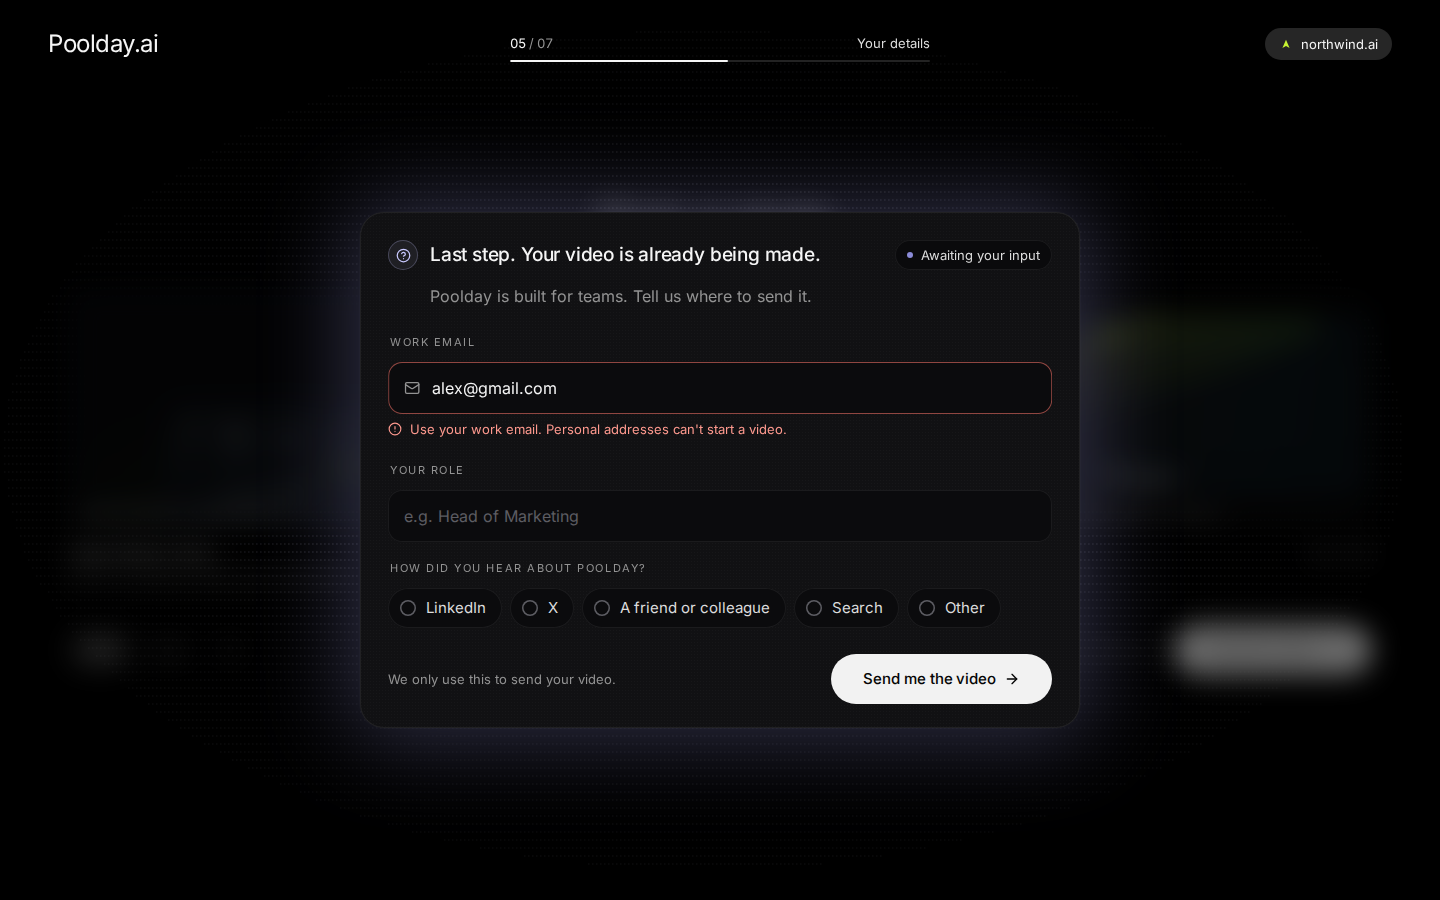
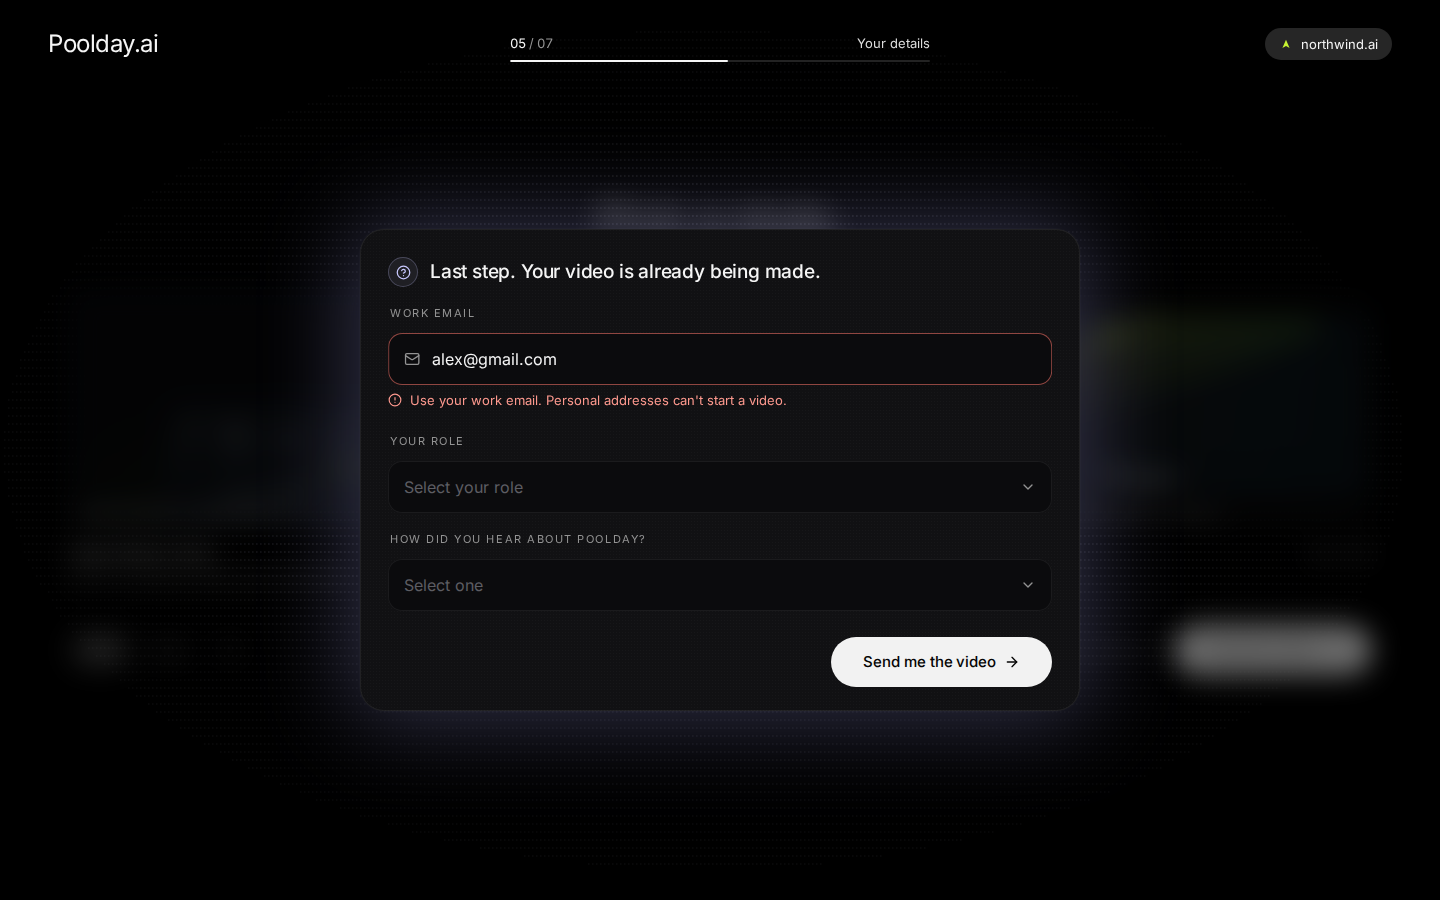
Growth mockups v3.1: dropdown selects, less noise in the details card
Claude-Session: https://claude.ai/code/session_014hQZTHyaVN7FtPgL5qa4Zv

diff --git a/deliverables/D5-mockups/src/app.js b/deliverables/D5-mockups/src/app.js
@@ -57,11 +57,14 @@ function scriptLaunch(product = "launch", url = "northwind.ai") {
   push({ t: L0 + 1.6, type: "lerr", f: "email" });
   push({ t: L0 + 2.55, type: "ltype", f: "email", text: "alex@northwind.ai", per: 0.04, clear: true });
   push({ t: L0 + 3.3, type: "lok", f: "email" });
-  click(L0 + 3.75, "#fRole", 1, { type: "lfocus", f: "role" });
-  push({ t: L0 + 3.85, type: "ltype", f: "role", text: "Head of Marketing", per: 0.035 });
-  click(L0 + 4.9, '.opt[data-o="0"]', 1, { type: "lopt", o: 0 });
-  click(L0 + 5.55, "#goLead", 4, { type: "go", to: "s-gen" });
-  const G0 = L0 + 5.85; GSTART = G0;
+  click(L0 + 3.75, "#fRole", 0, { type: "ddopen", f: "Role" });
+  push({ t: L0 + 4.3, type: "ddhl", f: "Role", i: 1 });
+  click(L0 + 4.6, "#ddRole .di:nth-child(2)", 1, { type: "ddpick", f: "Role", i: 1 });
+  click(L0 + 5.05, "#fSrc", 0, { type: "ddopen", f: "Src" });
+  push({ t: L0 + 5.4, type: "ddhl", f: "Src", i: 0 });
+  click(L0 + 5.65, "#ddSrc .di:nth-child(1)", 1, { type: "ddpick", f: "Src", i: 0 });
+  click(L0 + 6.2, "#goLead", 4, { type: "go", to: "s-gen" });
+  const G0 = L0 + 6.5; GSTART = G0;
   push({ t: G0, type: "gen" });
   push({ t: G0 + GEN_DUR + 0.05, type: "go", to: "s-res" });
   const R0 = G0 + GEN_DUR + 0.05;
@@ -75,8 +78,9 @@ function scriptLaunch(product = "launch", url = "northwind.ai") {
     [7.2, ["#kit-ai", 180, 120]], [7.95, ["#kit-ai", 0, 6]], [8.52, ["#kit-ai", 6, 5]], [9.1, ["#kit-ai", 12, 8]],
     [10.0, [900, 700]], [10.8, ['.tile[data-i="0"] .pv', 60, 40]], [11.6, ['.tile[data-i="0"] .pv', 80, 34]], [12.12, ['.tile[data-i="0"] .pv', 84, 30]],
     [12.5, ['.tile[data-i="0"] .pv', 90, 34]], [13.05, "#go4"], [13.4, "#go4"],
-    [L0 + 0.7, ["#fEmail", -200, 2]], [L0 + 2.3, ["#fEmail", -190, 4]], [L0 + 3.7, ["#fRole", -200, 2]], [L0 + 4.4, ["#fRole", -160, 6]],
-    [L0 + 4.85, ['.opt[data-o="0"]', 0, 2]], [L0 + 5.2, ['.opt[data-o="0"]', 6, 4]], [L0 + 5.5, ["#goLead", 10, 2]], [L0 + 5.8, ["#goLead", 12, 3]],
+    [L0 + 0.7, ["#fEmail", -200, 2]], [L0 + 2.3, ["#fEmail", -190, 4]], [L0 + 3.7, ["#fRole", 180, 2]], [L0 + 3.95, ["#fRole", 184, 3]],
+    [L0 + 4.3, ["#ddRole .di:nth-child(2)", -120, 1]], [L0 + 4.65, ["#ddRole .di:nth-child(2)", -116, 2]], [L0 + 5.0, ["#fSrc", 180, 2]], [L0 + 5.2, ["#fSrc", 184, 3]],
+    [L0 + 5.4, ["#ddSrc .di:nth-child(1)", -150, 1]], [L0 + 5.7, ["#ddSrc .di:nth-child(1)", -146, 2]], [L0 + 6.1, ["#goLead", 10, 2]], [L0 + 6.45, ["#goLead", 12, 3]],
     [R0 - 0.3, [1010, 560]], [R0 + 1.4, ["#share", 60, 2]], [R0 + 2.35, ["#share", 70, 3]], [R0 + 2.9, ['#shareMenu .mi', -40, 2]], [R0 + 3.6, ['#shareMenu .mi', -30, 4]],
     [R0 + 4.6, ["#book", 40, 4]], [R0 + 5.05, ["#book", 44, 3]], [DUR, ["#book", 46, 4]]];
   HIDE_CURSOR = [[G0 - 0.05, R0 - 0.35]];
@@ -457,8 +461,8 @@ function typed(t, f) { const evs = EV.filter(e => e.type === "ltype" && e.f === 
 function drawLead(t, te) {
   const u = t - te, card = $("#acard");
   const k = fr(t, te + 0.08); card.style.transform = `translateY(${(1 - expo(k, 0.8)) * 34}px) scale(${0.97 + 0.03 * expo(k, 0.8)})`; card.style.opacity = ink(k, 0.5);
-  const foc = last(t, "lfocus"), fcs = foc ? foc.f : null;
-  [["email", "#fEmail", "#vEmail", "#cEmail", "you@company.com"], ["role", "#fRole", "#vRole", "#cRole", "e.g. Head of Marketing"]].forEach(([f, fs, vs, cs, ph]) => {
+  const foc = last(t, "lfocus"), dd0 = last(t, "ddopen"), fcs = foc && !(dd0 && dd0.t > foc.t) ? foc.f : null;
+  [["email", "#fEmail", "#vEmail", "#cEmail", "you@company.com"]].forEach(([f, fs, vs, cs, ph]) => {
     const { v, typing } = typed(t, f), on = fcs === f; const vEl = $(vs);
     vEl.textContent = v || ph; vEl.className = v ? "v" : "v ph";
     $(fs).style.setProperty("--focus", on ? ink(fr(t, foc.t), 0.6) : 0);
@@ -470,8 +474,16 @@ function drawLead(t, te) {
   $("#errEmail").style.height = (eh * 30) + "px"; $("#errEmail").style.opacity = eh; $("#fEmail").classList.toggle("bad", !!showErr);
   if (showErr) $("#fEmail").style.transform = `translateX(${Math.sin(fr(t, er.t) * 1.9) * 7 * Math.exp(-fr(t, er.t) / 6)}px)`; else $("#fEmail").style.transform = "";
   const okc = $("#okEmail"); if (ok) { const v = fr(t, ok.t); okc.style.opacity = ink(v, 0.6); okc.style.transform = `scale(${0.6 + 0.4 * spring(v, 0.45, 0.3)})`; } else okc.style.opacity = 0;
-  const op = last(t, "lopt"); $$(".opt").forEach(o => { const on = op && +o.dataset.o === op.o; o.classList.toggle("on", !!on);
-    o.style.transform = on ? `scale(${1 + (1 - spring(fr(t, op.t), 0.5, 0.3)) * -0.04})` : `scale(${1 - pressAmt(t, `.opt[data-o="${o.dataset.o}"]`) * 0.04})`; });
+  // Dropdown selects: open on click, highlight follows the pointer, pick closes and fills the field.
+  const PH = { Role: "Select your role", Src: "Select one" };
+  ["Role", "Src"].forEach(f => { const dd = $("#dd" + f), fld = $("#f" + f), v = $("#v" + f);
+    const o = last(t, "ddopen", e => e.f === f), pk = last(t, "ddpick", e => e.f === f), hl = last(t, "ddhl", e => e.f === f);
+    const open = o && (!pk || pk.t < o.t); const items = $$(".di", dd);
+    if (open) { const k = fr(t, o.t + 0.04); dd.style.opacity = ink(k, 0.55); dd.style.transform = `translateY(${(1 - expo(k, 0.78)) * -8}px) scale(${0.97 + 0.03 * expo(k, 0.78)})`; }
+    else if (pk) { const k = out3(seg(t, pk.t, pk.t + 0.18)); dd.style.opacity = 1 - k; dd.style.transform = `scale(${1 - 0.02 * k})`; } else dd.style.opacity = 0;
+    items.forEach((it, i) => it.classList.toggle("hl", !!(hl && hl.i === i && (!pk || pk.t < hl.t || (pk.t >= hl.t && t < pk.t + 0.18)))));
+    if (pk && pk.t >= (o ? o.t : 0)) { v.textContent = items[pk.i].textContent; v.className = "v"; } else { v.textContent = PH[f]; v.className = "v ph"; }
+    fld.style.setProperty("--focus", open ? 1 : 0); fld.style.transform = `scale(${1 - pressAmt(t, "#f" + f) * 0.02})`; });
   $("#goLead").style.setProperty("--p", pressAmt(t, "#goLead"));
   // Keep the style previews alive behind the blur.
   const g = last(te - 1e-6, "go"); seekPreviews(t - (g ? g.t : te), $$("#grid3 iframe"));
@@ -529,8 +541,8 @@ function wireLive() {
   on("#grid3 .tile", el => click(liveNow(), `.tile[data-i="${el.dataset.i}"]`, 6, { type: "select", i: +el.dataset.i }));
   on("#go4", () => { const t = liveNow(); if (!last(t, "select")) push({ t, type: "select", i: 0 }); click(t, "#go4", 6, { type: "go", to: "s-lead" }); });
   on("#fEmail", () => { const t = liveNow(); click(t, "#fEmail", 0, { type: "lfocus", f: "email" }); push({ t: t + 0.1, type: "ltype", f: "email", text: "alex@northwind.ai", per: 0.035 }); push({ t: t + 0.8, type: "lok", f: "email" }); });
-  on("#fRole", () => { const t = liveNow(); click(t, "#fRole", 2, { type: "lfocus", f: "role" }); push({ t: t + 0.1, type: "ltype", f: "role", text: "Head of Marketing", per: 0.035 }); });
-  on(".opt", el => click(liveNow(), `.opt[data-o="${el.dataset.o}"]`, 2, { type: "lopt", o: +el.dataset.o }));
+  on("#fRole, #fSrc", el => click(liveNow(), "#" + el.id, 0, { type: "ddopen", f: el.id.slice(1) }));
+  on(".dd .di", el => { const f = el.parentElement.id.slice(2), i = [...el.parentElement.children].indexOf(el); click(liveNow(), `#dd${f} .di:nth-child(${i + 1})`, 1, { type: "ddpick", f, i }); });
   on("#goLead", () => { const t = liveNow(); click(t, "#goLead", 6, { type: "go", to: "s-gen" }); push({ t: t + 0.3, type: "gen" }); push({ t: t + 0.3 + GEN_DUR + 0.05, type: "go", to: "s-res" }); });
   on("#share", () => { const t = liveNow(); click(t, "#share", 0, { type: "share" }); });
   on("#shareMenu .mi", () => push({ t: liveNow(), type: "copied" }));

diff --git a/deliverables/D5-mockups/src/app.html b/deliverables/D5-mockups/src/app.html
@@ -28,6 +28,7 @@
   <symbol id="l-x" viewBox="0 0 24 24"><path fill="currentColor" stroke="none" d="M18.244 2.25h3.308l-7.227 8.26 8.502 11.24H16.17l-5.214-6.817L4.99 21.75H1.68l7.73-8.835L1.254 2.25H8.08l4.713 6.231zm-1.161 17.52h1.833L7.084 4.126H5.117z"/></symbol>
   <symbol id="l-alert" viewBox="0 0 24 24"><circle cx="12" cy="12" r="10"/><path d="M12 8v4"/><path d="M12 16h.01"/></symbol>
   <symbol id="l-help" viewBox="0 0 24 24"><circle cx="12" cy="12" r="10"/><path d="M9.09 9a3 3 0 0 1 5.83 1c0 2-3 3-3 3"/><path d="M12 17h.01"/></symbol>
+  <symbol id="l-chev" viewBox="0 0 24 24"><path d="m6 9 6 6 6-6"/></symbol>
   <symbol id="l-calendar" viewBox="0 0 24 24"><path d="M8 2v4"/><path d="M16 2v4"/><rect x="3" y="4" width="18" height="18" rx="2"/><path d="M3 10h18"/></symbol>
   <symbol id="l-volume" viewBox="0 0 24 24"><path d="M11 4.702a.705.705 0 0 0-1.203-.498L6.413 7.587A1.4 1.4 0 0 1 5.416 8H3a1 1 0 0 0-1 1v6a1 1 0 0 0 1 1h2.416a1.4 1.4 0 0 1 .997.413l3.383 3.384A.705.705 0 0 0 11 19.298z"/><path d="M16 9a5 5 0 0 1 0 6"/><path d="M19.364 18.364a9 9 0 0 0 0-12.728"/></symbol>
   <symbol id="l-layers" viewBox="0 0 24 24"><path d="m12.83 2.18a2 2 0 0 0-1.66 0L2.6 6.08a1 1 0 0 0 0 1.83l8.58 3.91a2 2 0 0 0 1.66 0l8.58-3.9a1 1 0 0 0 0-1.83Z"/><path d="m22 17.65-9.17 4.16a2 2 0 0 1-1.66 0L2 17.65"/><path d="m22 12.65-9.17 4.16a2 2 0 0 1-1.66 0L2 12.65"/></symbol>
@@ -137,18 +138,17 @@
   <section class="screen" id="s-lead">
     <div class="modal-wrap">
       <div class="acard" id="acard">
-        <div class="ahead"><span class="qi"><svg class="i"><use href="#l-help"/></svg></span><b>Last step. Your video is already being made.</b><span class="await"><i></i>Awaiting your input</span></div>
-        <p class="asub">Poolday is built for teams. Tell us where to send it.</p>
+        <div class="ahead"><span class="qi"><svg class="i"><use href="#l-help"/></svg></span><b>Last step. Your video is already being made.</b></div>
         <div class="flabel">Work email</div>
         <div class="afield" id="fEmail" data-hover><svg class="i"><use href="#l-mail"/></svg><span class="v" id="vEmail"></span><span class="caret" id="cEmail"></span><span class="okc" id="okEmail"><svg class="i"><use href="#l-check"/></svg></span></div>
         <div class="err" id="errEmail"><svg class="i"><use href="#l-alert"/></svg>Use your work email. Personal addresses can't start a video.</div>
         <div class="flabel">Your role</div>
-        <div class="afield" id="fRole" data-hover><span class="v" id="vRole"></span><span class="caret" id="cRole"></span></div>
+        <div class="fw"><div class="afield sel" id="fRole" data-hover><span class="v ph" id="vRole">Select your role</span><svg class="i chev"><use href="#l-chev"/></svg></div>
+          <div class="dd" id="ddRole"><div class="di">Founder / CEO</div><div class="di">Head of Marketing</div><div class="di">Product Marketing</div><div class="di">Growth / Demand gen</div><div class="di">Other</div></div></div>
         <div class="flabel">How did you hear about Poolday?</div>
-        <div class="opts" id="opts">
-          <div class="opt" data-o="0" data-hover><i></i>LinkedIn</div><div class="opt" data-o="1" data-hover><i></i>X</div><div class="opt" data-o="2" data-hover><i></i>A friend or colleague</div><div class="opt" data-o="3" data-hover><i></i>Search</div><div class="opt" data-o="4" data-hover><i></i>Other</div>
-        </div>
-        <div class="afoot"><span class="cap">We only use this to send your video.</span><button class="btn btn-lg" id="goLead" data-hover>Send me the video<svg class="i"><use href="#l-arrow-right"/></svg></button></div>
+        <div class="fw"><div class="afield sel" id="fSrc" data-hover><span class="v ph" id="vSrc">Select one</span><svg class="i chev"><use href="#l-chev"/></svg></div>
+          <div class="dd" id="ddSrc"><div class="di">LinkedIn</div><div class="di">X</div><div class="di">A friend or colleague</div><div class="di">Search</div><div class="di">Podcast</div><div class="di">Other</div></div></div>
+        <div class="afoot"><button class="btn btn-lg" id="goLead" data-hover>Send me the video<svg class="i"><use href="#l-arrow-right"/></svg></button></div>
       </div>
     </div>
   </section>

diff --git a/deliverables/D5-mockups/src/app.css b/deliverables/D5-mockups/src/app.css
@@ -324,3 +324,12 @@ html.demo #cursor { display: block; }
 .menu .mi { display: flex; align-items: center; gap: 12px; height: 42px; padding: 0 12px; border-radius: 12px; font-size: 15px; color: var(--ink-nav); }
 .menu .mi:first-child { background: rgba(255,255,255,.06); color: var(--ink); }
 .menu .mi em { margin-left: auto; font-style: normal; font-size: 13px; color: var(--ink-muted); opacity: 0; }
+/* v3.1: dropdown selects in the details card */
+.fw { position: relative; }
+.afield.sel { cursor: pointer; }
+.afield.sel .chev { margin-left: auto; color: var(--ink-muted); }
+.dd { position: absolute; left: 0; right: 0; top: 58px; z-index: 8; padding: 6px; border-radius: 16px; background: #18181b; box-shadow: inset 0 0 0 1px var(--hair), 0 24px 60px rgba(0,0,0,.7); opacity: 0; pointer-events: none; transform-origin: 50% 0; }
+.dd .di { height: 40px; display: flex; align-items: center; padding: 0 12px; border-radius: 10px; font-size: 15px; color: var(--ink-nav); }
+.dd .di.hl { background: rgba(255,255,255,.08); color: var(--ink); }
+.afoot { justify-content: flex-end !important; }
+.acard .flabel:first-of-type { margin-top: 22px; }

diff --git a/deliverables/D5-mockups/src/render.js b/deliverables/D5-mockups/src/render.js
@@ -5,7 +5,7 @@ const { chromium } = require("playwright");
 const path = require("path");
 const BASE = "http://127.0.0.1:8765/D5-mockups/src/app.html?capture&nocursor";
 const OUT = path.join(__dirname, "..");
-const L0 = 13.45, G = L0 + 5.85, R0 = G + 13.9 + 0.05; // must match scriptLaunch() in app.js
+const L0 = 13.45, G = L0 + 6.5, R0 = G + 13.9 + 0.05; // must match scriptLaunch() in app.js
 const SHOTS = [
   { name: "01-link", t: 2.6 },
   { name: "01-link-mobile", t: 2.6, w: 390, h: 844, mobile: true },
@@ -16,7 +16,8 @@ const SHOTS = [
   { name: "04-style", t: 12.9 },
   { name: "04b-style-podcast", t: 1.6, script: "podcast" },
   { name: "04c-details-personal-email-rejected", t: L0 + 2.3 },
-  { name: "04d-details", t: L0 + 5.4 },
+  { name: "04d-details", t: L0 + 6.17 },
+  { name: "04e-details-dropdown-open", t: L0 + 4.35 },
   { name: "05-generating-recording", t: G + 3.3 },
   { name: "05b-generating-brand-kit", t: G + 6.6 },
   { name: "05c-generating-storyboard", t: G + 11.25 },
